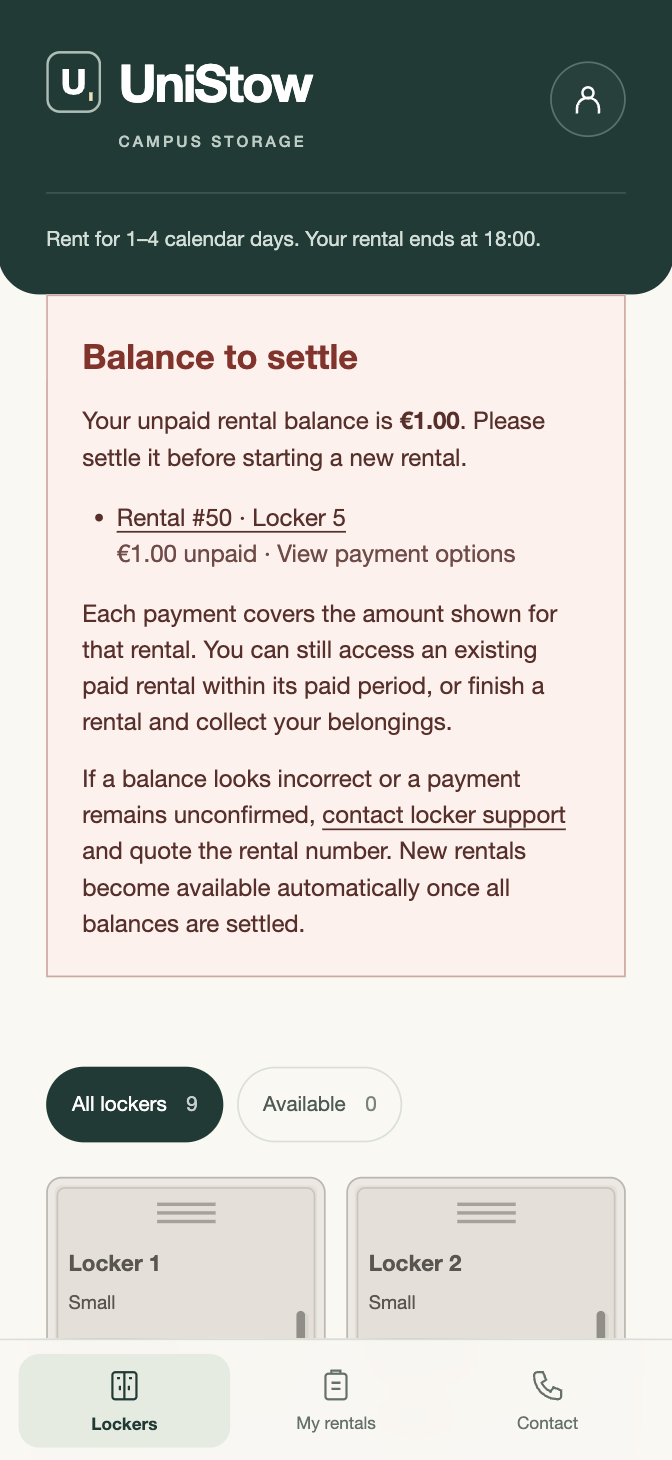
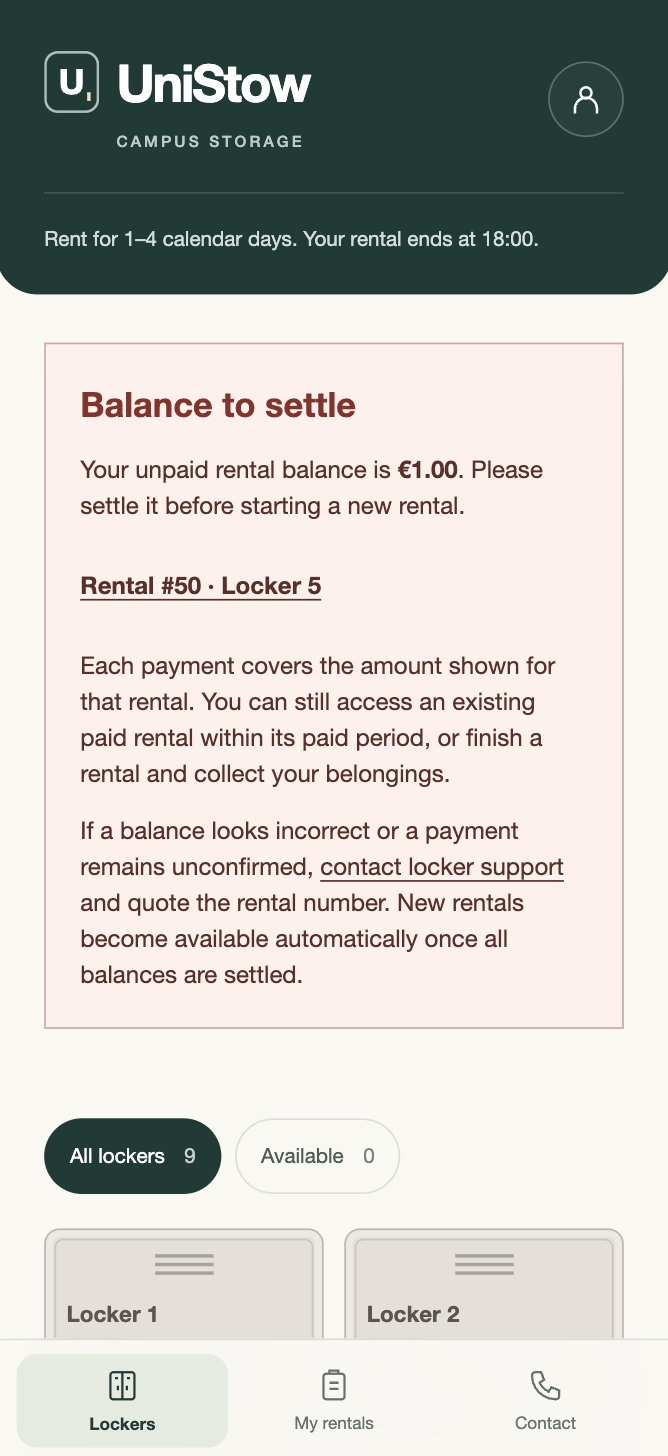
Refresh balance test evidence and format code
Replace outdated screenshots with four current captures of
the deployed locker, rental history and payment pages.

Update usability notes to document consistent page widths,
simplified rental links and removal of repeated balance notices.

Standardise formatting in booking eligibility queries, tests,
the balance review migration and page templates.

diff --git a/frontend/templates/reservation.html b/frontend/templates/reservation.html
@@ -14,7 +14,7 @@
 {% if rental.status == 'pending' %}
 {% include 'account_balance.html' %}
 {% else %}
-<div id="account-booking-notice" aria-live="polite"></div>
+<div aria-live="polite" id="account-booking-notice"></div>
 {% endif %}
 <div data-collecting="{{ 1 if rental.collecting else 0 }}" data-door-state="{{ door_state }}"
      data-status="{{ rental.status }}" id="live-rental">
@@ -33,7 +33,8 @@
             <dt>Payment</dt>
             <dd>{% if billing.unpaid %}Payment incomplete{% elif billing.pending or billing.recovery_pending %}Payment
                 processing{% else %}{{
-                {'paid': 'Paid', 'expired': 'Expired', 'pending': 'Awaiting payment'}.get(rental.payment_status, 'Not paid')
+                {'paid': 'Paid', 'expired': 'Expired', 'pending': 'Awaiting payment'}.get(rental.payment_status, 'Not
+                paid')
                 }}{% endif %}
             </dd>
         </div>
@@ -77,14 +78,14 @@
         <p class="operator-help">A checkout authorised before this balance appeared can still complete this rental.
             Any confirmed payment for it will be honoured. You can also cancel this reservation.</p>
         {% endif %}
-        <button class="confirm-button" data-checkout-url="{{ url_for('checkout', rental_id=rental.id) }}"
+        <button class="confirm-button" data-booking-blocked="{{ 'false' if eligibility.can_book else 'true' }}"
+                data-checkout-url="{{ url_for('checkout', rental_id=rental.id) }}"
                 data-login-url="{{ url_for('sign_in') }}?rental_id={{ rental.id }}"
                 data-reconcile-url="{{ url_for('reconcile', rental_id=rental.id) }}"
-                data-booking-blocked="{{ 'false' if eligibility.can_book else 'true' }}"
                 {{
         'disabled' if not eligibility.can_book else '' }}
-                id="pay-button" type="button">Pay €{{ '%.2f' |
-            format(rental.total_price_cents / 100) }}
+        id="pay-button" type="button">Pay €{{ '%.2f' |
+        format(rental.total_price_cents / 100) }}
         </button>
         <button class="back-button" data-url="{{ url_for('cancel_reservation', rental_id=rental.id) }}"
                 id="cancel-reservation"

diff --git a/frontend/templates/account_balance.html b/frontend/templates/account_balance.html
@@ -1,10 +1,11 @@
-<div id="account-booking-notice" aria-live="polite">
+<div aria-live="polite" id="account-booking-notice">
     {% if not eligibility.can_book %}
     <section
             aria-labelledby="account-balance-heading"
             class="account-balance {{ 'account-balance--unpaid' if eligibility.unpaid_cents else 'account-balance--pending' }}"
             id="account-balance">
-        <h2 id="account-balance-heading">{% if eligibility.unpaid_cents %}Balance to settle{% else %}Payment awaiting confirmation{% endif %}</h2>
+        <h2 id="account-balance-heading">{% if eligibility.unpaid_cents %}Balance to settle{% else %}Payment awaiting
+            confirmation{% endif %}</h2>
         {% if eligibility.unpaid_cents %}
         <p>Your unpaid rental balance is <strong>€{{ '%.2f' | format(eligibility.unpaid_cents / 100) }}</strong>.
             Please settle it before starting a new rental.</p>
@@ -16,13 +17,15 @@
         <ul role="list">
             {% for balance in eligibility.rentals %}
             <li>
-                <a href="{{ url_for('reservation', rental_id=balance.id) }}">Rental #{{ balance.id }} · Locker {{ balance.number }}</a>
+                <a href="{{ url_for('reservation', rental_id=balance.id) }}">Rental #{{ balance.id }} · Locker {{
+                    balance.number }}</a>
             </li>
             {% endfor %}
         </ul>
         <p>Each payment covers the amount shown for that rental. You can still access an existing paid rental
             within its paid period, or finish a rental and collect your belongings.</p>
-        <p>If a balance looks incorrect or a payment remains unconfirmed, <a href="{{ url_for('contact') }}">contact locker support</a>
+        <p>If a balance looks incorrect or a payment remains unconfirmed, <a href="{{ url_for('contact') }}">contact
+            locker support</a>
             and quote the rental number. New rentals become available automatically once all balances are settled.</p>
     </section>
     {% endif %}

diff --git a/frontend/templates/bottom_nav.html b/frontend/templates/bottom_nav.html
@@ -1,17 +1,17 @@
 <nav aria-label="Main navigation" class="bottom-nav">
-    <a {% if active_tab == 'lockers' %}aria-current="page" {% endif %}href="{{ url_for('home') }}#lockers">
+    <a active_tab== if {% 'lockers' %}aria-current="page" {% endif %}href="{{ url_for('home') }}#lockers">
     <svg aria-hidden="true" viewBox="0 0 24 24">
         <rect height="18" rx="2" width="16" x="4" y="3"/>
         <path d="M12 3v18M7 7h2m6 0h2M9 12v3m6-3v3"/>
     </svg>
     <span>Lockers</span></a>
-    <a {% if active_tab == 'rentals' %}aria-current="page" {% endif %}href="{{ url_for('my_rentals') }}">
+    <a active_tab== if {% 'rentals' %}aria-current="page" {% endif %}href="{{ url_for('my_rentals') }}">
     <svg aria-hidden="true" viewBox="0 0 24 24">
         <rect height="17" rx="2" width="14" x="5" y="4"/>
         <path d="M9 4V2h6v2M9 10h6m-6 4h6"/>
     </svg>
     <span>My rentals</span></a>
-    <a {% if active_tab == 'contact' %}aria-current="page" {% endif %}href="{{ url_for('contact') }}">
+    <a active_tab== if {% 'contact' %}aria-current="page" {% endif %}href="{{ url_for('contact') }}">
     <svg aria-hidden="true" viewBox="0 0 24 24">
         <path d="M5 3h4l2 5-3 2a14 14 0 0 0 6 6l2-3 5 2v4a2 2 0 0 1-2 2C10 21 3 14 3 5a2 2 0 0 1 2-2Z"/>
     </svg>

diff --git a/backend/tests/test_booking_eligibility.py b/backend/tests/test_booking_eligibility.py
@@ -35,22 +35,35 @@ class BookingEligibilityTests(unittest.TestCase):
 
     def charge(self, status='failed', rental_id=None, day=0):
         return self.connection.scalar(text("""
-            INSERT INTO overdue_charges(rental_id, charge_date, status, stripe_payment_intent_id, paid_at)
-            VALUES (:rental, CURRENT_DATE + :day, :status, :intent,
-                    CASE WHEN :status='paid' THEN clock_timestamp() END) RETURNING id
-        """), {'rental': rental_id or self.rental_id, 'day': day, 'status': status,
-               'intent': f'pi_test_{rental_id}_{day}'})
+                                           INSERT INTO overdue_charges(rental_id, charge_date, status, stripe_payment_intent_id, paid_at)
+                                           VALUES (:rental, CURRENT_DATE + :day, :status, :intent,
+                                                   CASE WHEN :status = 'paid' THEN clock_timestamp() END)
+                                           RETURNING id
+                                           """), {'rental': rental_id or self.rental_id, 'day': day, 'status': status,
+                                                  'intent': f'pi_test_{rental_id}_{day}'})
 
     def completed_rental(self):
         return self.connection.scalar(text("""
-            INSERT INTO rentals(user_id, locker_id, status, prepaid_days, reserved_until,
-                                starts_at, paid_until, total_price_cents, overdue_terms_version,
-                                overdue_terms_accepted_at, created_at, completed_at)
-            SELECT user_id, locker_id, 'completed', prepaid_days, reserved_until,
-                   starts_at, paid_until, total_price_cents, overdue_terms_version,
-                   overdue_terms_accepted_at, created_at, clock_timestamp()
-            FROM rentals WHERE id=:id RETURNING id
-        """), {'id': self.rental_id})
+                                           INSERT INTO rentals(user_id, locker_id, status, prepaid_days, reserved_until,
+                                                               starts_at, paid_until, total_price_cents,
+                                                               overdue_terms_version,
+                                                               overdue_terms_accepted_at, created_at, completed_at)
+                                           SELECT user_id,
+                                                  locker_id,
+                                                  'completed',
+                                                  prepaid_days,
+                                                  reserved_until,
+                                                  starts_at,
+                                                  paid_until,
+                                                  total_price_cents,
+                                                  overdue_terms_version,
+                                                  overdue_terms_accepted_at,
+                                                  created_at,
+                                                  clock_timestamp()
+                                           FROM rentals
+                                           WHERE id = :id
+                                           RETURNING id
+                                           """), {'id': self.rental_id})
 
     def reserve(self):
         return self.client.post('/api/rentals', headers=self.headers,
@@ -72,7 +85,8 @@ class BookingEligibilityTests(unittest.TestCase):
         self.assertEqual(self.connection.scalar(text('SELECT count(*) FROM payments')), 1)
         page = self.client.get(f"/rentals/{pending['id']}")
         self.assertRegex(page.text, r'<button(?=[^>]*id="pay-button")(?=[^>]*\bdisabled\b)[^>]*>')
-        self.assertEqual(self.client.post(f"/api/rentals/{pending['id']}/cancel", headers=self.headers).status_code, 200)
+        self.assertEqual(self.client.post(f"/api/rentals/{pending['id']}/cancel", headers=self.headers).status_code,
+                         200)
 
     def test_pending_and_review_payments_pause_booking_without_claiming_debt(self):
         self.charge('pending')
@@ -207,13 +221,13 @@ class BookingConcurrencyTests(unittest.TestCase):
         test_overdue_billing.OverdueBillingTests.setUp(self)
         with self.db.begin() as connection:
             connection.execute(text("""
-                INSERT INTO lockers(number,size,price_per_day_cents,is_enabled,last_seen_at)
-                VALUES(5,'small',100,true,clock_timestamp())
-            """))
+                                    INSERT INTO lockers(number, size, price_per_day_cents, is_enabled, last_seen_at)
+                                    VALUES (5, 'small', 100, true, clock_timestamp())
+                                    """))
             connection.execute(text("""
-                INSERT INTO overdue_charges(rental_id,charge_date,status,stripe_payment_intent_id)
-                VALUES(1,CURRENT_DATE,'pending','pi_unconfirmed')
-            """))
+                                    INSERT INTO overdue_charges(rental_id, charge_date, status, stripe_payment_intent_id)
+                                    VALUES (1, CURRENT_DATE, 'pending', 'pi_unconfirmed')
+                                    """))
 
     def wait_for_lock(self, pid):
         deadline = time.monotonic() + 3
@@ -249,8 +263,10 @@ class BookingConcurrencyTests(unittest.TestCase):
                         self.wait_for_lock(pid[0])
                         self.assertFalse(future.done())
                         settlement.execute(text("""
-                            UPDATE overdue_charges SET status='pending',paid_at=NULL
-                        """))
+                                                UPDATE overdue_charges
+                                                SET status='pending',
+                                                    paid_at=NULL
+                                                """))
                         save_status(settlement, 1, status)
                     finally:
                         settlement.rollback()

diff --git a/backend/services/booking_eligibility.py b/backend/services/booking_eligibility.py
@@ -14,27 +14,31 @@ def lock_rental_account(db, rental_id):
 
 def booking_eligibility(db, user_id):
     rows = db.execute(text("""
-        SELECT r.id, l.number,
-               COALESCE(SUM(c.amount_cents) FILTER (
-                   WHERE c.status = 'failed' AND NOT EXISTS (
-                       SELECT 1 FROM overdue_payments p
-                       WHERE p.rental_id = r.id AND p.status = 'pending'
-                         AND p.charge_ids @> jsonb_build_array(c.id)
-                   )), 0) AS unpaid_cents,
-               COALESCE(SUM(c.amount_cents) FILTER (
-                   WHERE c.status IN ('pending', 'review') OR EXISTS (
-                       SELECT 1 FROM overdue_payments p
-                       WHERE p.rental_id = r.id AND p.status = 'pending'
-                         AND p.charge_ids @> jsonb_build_array(c.id)
-                   )), 0) AS processing_cents
-        FROM rentals r
-        JOIN lockers l ON l.id = r.locker_id
-        JOIN overdue_charges c ON c.rental_id = r.id
-        WHERE r.user_id = :user_id AND r.status IN ('active', 'overdue', 'completed')
-          AND c.status IN ('failed', 'pending', 'review')
-        GROUP BY r.id, l.number
-        ORDER BY r.id
-    """), {'user_id': user_id}).mappings().all() if user_id is not None else []
+                           SELECT r.id,
+                                  l.number,
+                                  COALESCE(SUM(c.amount_cents) FILTER (
+                                      WHERE c.status = 'failed' AND NOT EXISTS (SELECT 1
+                                                                                FROM overdue_payments p
+                                                                                WHERE p.rental_id = r.id
+                                                                                  AND p.status = 'pending'
+                                                                                  AND p.charge_ids @> jsonb_build_array(c.id))),
+                                           0) AS unpaid_cents,
+                                  COALESCE(SUM(c.amount_cents) FILTER (
+                                      WHERE c.status IN ('pending', 'review') OR EXISTS (SELECT 1
+                                                                                         FROM overdue_payments p
+                                                                                         WHERE p.rental_id = r.id
+                                                                                           AND p.status = 'pending'
+                                                                                           AND p.charge_ids @> jsonb_build_array(c.id))),
+                                           0) AS processing_cents
+                           FROM rentals r
+                                    JOIN lockers l ON l.id = r.locker_id
+                                    JOIN overdue_charges c ON c.rental_id = r.id
+                           WHERE r.user_id = :user_id
+                             AND r.status IN ('active', 'overdue', 'completed')
+                             AND c.status IN ('failed', 'pending', 'review')
+                           GROUP BY r.id, l.number
+                           ORDER BY r.id
+                           """), {'user_id': user_id}).mappings().all() if user_id is not None else []
     unpaid = sum(row['unpaid_cents'] for row in rows)
     processing = sum(row['processing_cents'] for row in rows)
     return {'can_book': not (unpaid or processing), 'unpaid_cents': unpaid,

diff --git a/backend/routes/pages.py b/backend/routes/pages.py
@@ -133,10 +133,10 @@ def reservation(request: Request, rental_id: int, db: Annotated[Session, Depends
         "total": rental["total_price_cents"] + sum(additional.values()),
     }
     billing["recovery_pending"] = db.scalar(text("""
-                                                SELECT amount_cents
-                                                FROM overdue_payments
-                                                WHERE rental_id = :id
-                                                  AND status = 'pending'
+                                                 SELECT amount_cents
+                                                 FROM overdue_payments
+                                                 WHERE rental_id = :id
+                                                   AND status = 'pending'
                                                  """), {"id": rental_id}) or 0
     billing["checkout_amount"] = billing["recovery_pending"] or billing["failed"]
     billing["unpaid"] = max(0, billing["failed"] - billing["recovery_pending"])

diff --git a/docs/usability-testing.md b/docs/usability-testing.md
@@ -376,51 +376,70 @@ they do not remove the need to identify a recent rental on the website.
 
 ## 22 November 2026 — Unpaid-balance restriction
 
-The author supplied three narrow-screen captures of the deployed application
-for issue #19. They replace the earlier local-preview and desktop captures.
+Four browser captures of the deployed application were refreshed on 22 November
+2026 for issue #19, using a 393 × 852 viewport. They replace the earlier supplied
+screenshots and show the revised balance notice, rental history and payment page.
 The scenario uses a synthetic completed rental (#50, Locker 5) with one failed
 EUR 1.00 charge (#84324) on the test account. Rental #51 for Locker 4 had already
 been completed by the author before the updated application was checked.
 
 ### Account balance and locker availability
 
-The home-page notice shows **Balance to settle**, EUR 1.00 unpaid and a link to **Rental #50 · Locker 5**. It explains
-the restriction on new rentals, retained
+The home-page notice shows **Balance to settle**, EUR 1.00 unpaid and a link to
+**Rental #50 · Locker 5**. The underlined, bold rental link has no list bullet or
+repeated payment caption beneath it. The notice explains the restriction on new
+rentals, retained
 paid access and collection, and how to contact support about an incorrect
 balance. The filter shows **All lockers 9** and **Available 0**. The visible
 locker cards are grey; completed debt is no longer presented as **Continue rental**.
 Existing current rentals retain their management link and normal access checks.
 
-![Author-supplied narrow-screen capture showing the unpaid Locker 5 balance and Available 0 on the home page](images/testing/unpaid-balance-ec2-lockers.png)
+![Updated home page showing the spaced balance notice, underlined rental link and Available 0](images/testing/unpaid-balance-ec2-lockers.png)
+
+The home-page content now matches the width and side padding of My rentals and
+Contact. The notice also has the same gap below the header on both pages.
+The layout check confirmed matching 544-pixel content widths in a 1512-pixel
+viewport and 320-pixel content widths in a 360-pixel viewport, without horizontal
+overflow. All four captures use the same narrow-screen viewport.
 
 ### Balance above rental history
 
-My rentals places the same pale red notice above **No current rentals** and **Recently completed**. The panel uses
-square corners and a uniform one-pixel
+My rentals places the same pale red notice above **No current rentals** and
+**Recently completed**. The panel uses square corners and a uniform one-pixel
 border. Completed rental summaries also use square corners following the
 author's visual review. Colour is accompanied by explanatory text, amounts
 and links, following the [W3C guidance on use of colour](https://www.w3.org/WAI/WCAG21/Understanding/use-of-color.html).
 A separate amber treatment is used for payments awaiting confirmation without
 a confirmed unpaid balance; that state is not shown in these captures.
 
-![Author-supplied narrow-screen capture showing the balance notice above No current rentals and Recently completed](images/testing/unpaid-balance-ec2-my-rentals.png)
+![Updated My rentals page showing the balance notice above No current rentals and Recently completed](images/testing/unpaid-balance-ec2-my-rentals.png)
+
+The separate history view shows square completed-rental cards and the shorter
+description, **Your last five completed rentals.** Rental #50 retains a
+**View outstanding payment** link; completed rentals without debt remain
+non-interactive summaries.
+
+![Updated rental history showing square cards and the outstanding-payment link for Rental 50](images/testing/unpaid-balance-ec2-rental-history.png)
 
 ### Completed rental and recovery action
 
 The detail page identifies reservation #50 as **Completed**, with a one-day
-rental ending at 18:00 on 21 November 2026. It shows **Payment incomplete**, **Rental cost EUR 1.00**, **Extra days ·
-unpaid EUR 1.00** and **Total EUR 2.00**.
+rental ending at 18:00 on 21 November 2026. It shows **Payment incomplete**,
+**Rental cost EUR 1.00**, **Extra days · unpaid EUR 1.00** and **Total EUR 2.00**.
 The original cost and unpaid amount are separate: the remaining amount requested
 by **Pay outstanding EUR 1.00** is EUR 1.00. The page explains that the rental
 has ended and links back to My rentals. It does not offer opening or collection
-controls for this completed rental.
+controls for this completed rental. The repeated account-wide balance notice
+has been removed from this detail page so that the rental information and
+recovery action appear directly below the header.
 
-![Author-supplied completed-rental detail showing EUR 1.00 unpaid, Total EUR 2.00 and Pay outstanding EUR 1.00](images/testing/unpaid-balance-ec2-rental-payment.png)
+![Updated completed-rental detail without the account banner, showing EUR 1.00 unpaid and Pay outstanding EUR 1.00](images/testing/unpaid-balance-ec2-rental-payment.png)
 
 ### EC2 check: debt on Locker 5 blocks a new Locker 4 rental
 
-All 113 backend tests passed with isolated local PostgreSQL schemas and mocked
-Stripe responses. An existing payment-summary assertion now accepts whitespace
+Earlier functional verification passed all 113 backend tests with isolated
+local PostgreSQL schemas and mocked Stripe responses. An existing payment-summary
+assertion now accepts whitespace
 between Payment and processing, matching the text rendered by the browser.
 The page tests cover completed debt on another locker, disabled cards,
 balance notice placement, pending-payment styling and availability restoration
@@ -435,7 +454,7 @@ POST to `/api/rentals` for Locker 4 returned HTTP 409 with
 details. No new rental was created. The short-lived verification session was
 removed afterwards; the author's browser session remained signed in.
 
-The supplied captures record the displayed balance, availability and payment
+The refreshed captures record the displayed balance, availability and payment
 options. This manually inserted charge has no Stripe PaymentIntent, so it tests
 restriction and presentation, not payment recovery or a real card decline.
 The visible payment button is not evidence of a successful payment. The charge
